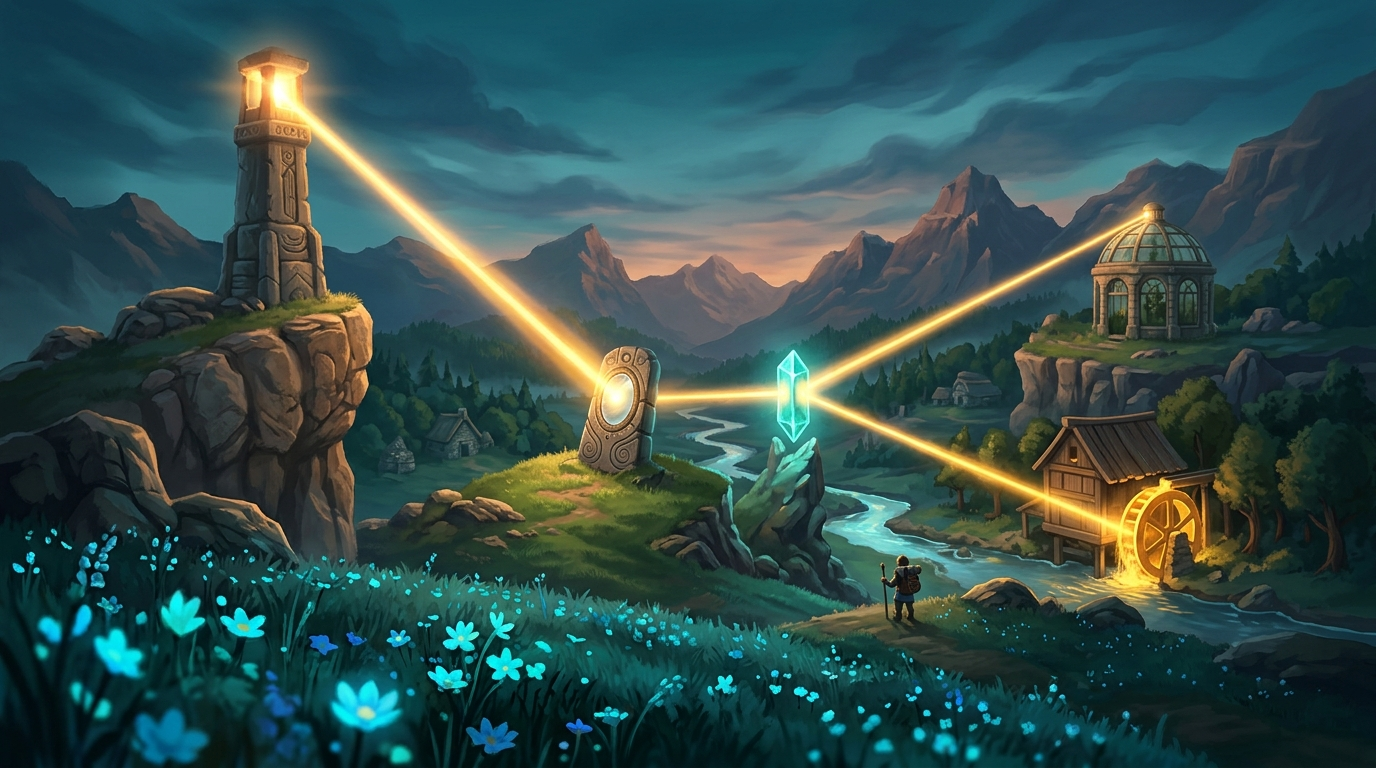
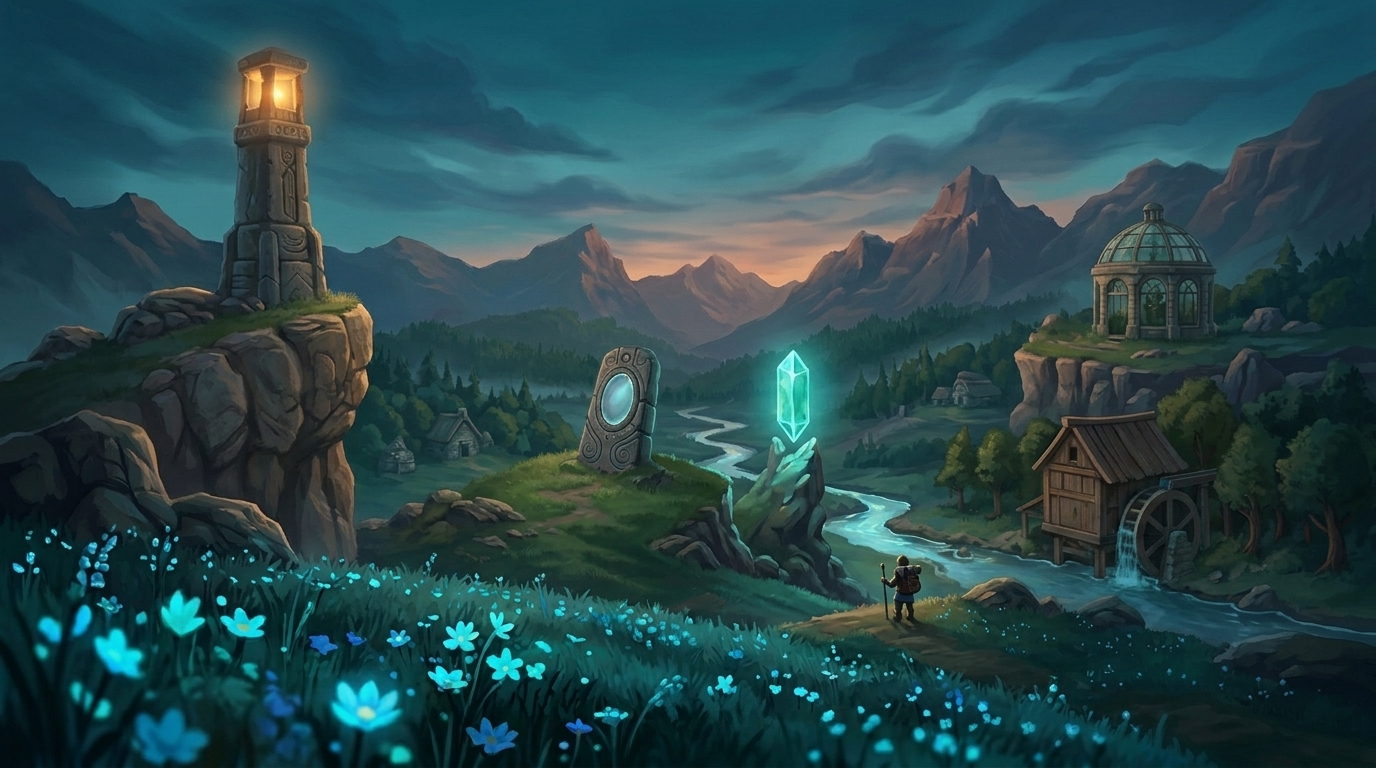
Fix Sun-Mirror Valley: remove baked-in ghost beams, unclip lighthouse badge, add live beam labels & optical console
- Regenerated assets/worlds/sun-mirror-valley.jpg without baked-in light rays so only real active beams illuminate the valley
- Clamped & repositioned the lighthouse power badge beside the beacon so it is never clipped
- Forced LTR number formatting (0/4, 8/4 red overload, 4/4 green check), added live power labels on beams, building illumination glows, and an interactive 2-step Optical Control Console below the stage

diff --git a/games/sun-mirror-valley.js b/games/sun-mirror-valley.js
@@ -36,6 +36,11 @@
       lockLabel: '☀ העמק מואר — המשך!',
       greenhouse: 'חממת הצמחים',
       watermill: 'טחנת המים',
+      mirrorAim: '🪞 כוון מראה ↻',
+      mirrorOff: 'כבוי',
+      mirrorOn: (b) => b > 0 ? `עדשה +${b}` : 'מכוון (+0)',
+      ctrlMirror: '1. מראת האבן (עוצמה)',
+      ctrlPrism: '2. גביש הטורקיז (פיצול)',
       prismModes: {
         up:    '↖ לחממה בלבד',
         down:  '↙ לטחנה בלבד',
@@ -57,6 +62,11 @@
       lockLabel: '☀ Valley Awakened — Continue!',
       greenhouse: 'Botanical Greenhouse',
       watermill: 'Golden Watermill',
+      mirrorAim: '🪞 Aim Mirror ↻',
+      mirrorOff: 'Off',
+      mirrorOn: (b) => b > 0 ? `Lens +${b}` : 'Aligned (+0)',
+      ctrlMirror: '1. Stone Mirror (Power)',
+      ctrlPrism: '2. Turquoise Prism (Split)',
       prismModes: {
         up:    '↖ Greenhouse Only',
         down:  '↙ Watermill Only',
@@ -214,9 +224,40 @@
     .smv-lock-cta.ready {
       pointer-events: auto; opacity: 1; transform: translateX(-50%) scale(1);
     }
+    .smv-console {
+      width: 100%; display: grid; grid-template-columns: repeat(2, minmax(0, 1fr)); gap: 10px;
+      background: linear-gradient(180deg, #0b1c29, #08151f);
+      border: 2px solid #2b4c5e; border-radius: 18px; padding: 10px 12px;
+      box-shadow: 0 8px 20px rgba(5, 12, 20, .28);
+    }
+    .smv-ctrl { display: flex; flex-direction: column; gap: 6px; min-width: 0; }
+    .smv-ctrl-title {
+      font-family: Fredoka, Heebo, sans-serif; font-weight: 700;
+      font-size: .84rem; color: #cbd5e1; display: flex; align-items: center; gap: 6px;
+    }
+    .smv-chips { display: flex; flex-wrap: wrap; gap: 6px; }
+    .smv-chip {
+      border: 1.5px solid #335c70; background: #0f2736; color: #e2e8f0;
+      border-radius: 99px; padding: 5px 12px; cursor: pointer;
+      font-family: Fredoka, Heebo, sans-serif; font-weight: 700; font-size: .82rem;
+      transition: transform .12s, background .15s, border-color .15s;
+    }
+    .smv-chip:hover { border-color: #fde047; transform: translateY(-1px); }
+    .smv-chip.active {
+      background: linear-gradient(180deg, #f59e0b, #b45309);
+      border-color: #fef08a; color: #fff;
+      box-shadow: 0 0 12px rgba(245, 158, 11, .45);
+    }
+    .smv-chip.prism.active {
+      background: linear-gradient(180deg, #0ea5e9, #0369a1);
+      border-color: #7dd3fc; color: #fff;
+      box-shadow: 0 0 12px rgba(56, 189, 248, .45);
+    }
     @media (max-width: 600px) {
       .smv-stage-box { height: auto; aspect-ratio: 16 / 10; min-height: 235px; max-height: 320px; border-radius: 18px; }
       .smv-node-btn { width: 58px; height: 58px; }
+      .smv-console { grid-template-columns: 1fr; gap: 8px; padding: 9px 10px; }
+      .smv-chip { padding: 4px 10px; font-size: .78rem; }
     }
   `;
 
@@ -272,6 +313,16 @@
             <button type="button" class="smv-lock-cta" id="smv-lock-cta">${t.lockLabel}</button>
           </div>
         </div>
+        <div class="smv-console" id="smv-console">
+          <div class="smv-ctrl">
+            <div class="smv-ctrl-title">${t.ctrlMirror}</div>
+            <div class="smv-chips" id="smv-mirror-chips"></div>
+          </div>
+          <div class="smv-ctrl">
+            <div class="smv-ctrl-title">${t.ctrlPrism}</div>
+            <div class="smv-chips" id="smv-prism-chips"></div>
+          </div>
+        </div>
       </div>
     `;
 
@@ -281,6 +332,8 @@
     const btnMirror = root.querySelector('#btn-mirror');
     const btnPrism = root.querySelector('#btn-prism');
     const lockCta = root.querySelector('#smv-lock-cta');
+    const mirrorChips = root.querySelector('#smv-mirror-chips');
+    const prismChips = root.querySelector('#smv-prism-chips');
     const headH2 = root.querySelector('.kit-head h2');
     const hintEl = root.querySelector('#smv-hint');
 
@@ -393,6 +446,53 @@
       }
 
       lockCta.classList.toggle('ready', st.goalMet && !locked);
+      renderConsole();
+    }
+
+    function renderConsole() {
+      mirrorChips.innerHTML = '';
+      const offBtn = document.createElement('button');
+      offBtn.type = 'button';
+      offBtn.className = 'smv-chip' + (!mirrorAligned ? ' active' : '');
+      offBtn.textContent = t.mirrorOff;
+      offBtn.addEventListener('click', () => {
+        if (locked) return;
+        mirrorAligned = false;
+        sfxCrystal(420);
+        updateTexts();
+      });
+      mirrorChips.appendChild(offBtn);
+
+      round.mirrorBoosts.forEach((b, idx) => {
+        const chip = document.createElement('button');
+        chip.type = 'button';
+        chip.className = 'smv-chip' + (mirrorAligned && mirrorBoostIdx === idx ? ' active' : '');
+        const total = round.basePower + b;
+        chip.textContent = `${t.mirrorOn(b)} → ${total}`;
+        chip.addEventListener('click', () => {
+          if (locked) return;
+          mirrorAligned = true;
+          mirrorBoostIdx = idx;
+          sfxCrystal(540 + idx * 110);
+          updateTexts();
+        });
+        mirrorChips.appendChild(chip);
+      });
+
+      prismChips.innerHTML = '';
+      round.prismOptions.forEach((opt, idx) => {
+        const chip = document.createElement('button');
+        chip.type = 'button';
+        chip.className = 'smv-chip prism' + (prismIdx === idx ? ' active' : '');
+        chip.textContent = t.prismModes[opt];
+        chip.addEventListener('click', () => {
+          if (locked) return;
+          prismIdx = idx;
+          sfxCrystal(720 + idx * 90);
+          updateTexts();
+        });
+        prismChips.appendChild(chip);
+      });
     }
 
     function loadRound(idx) {
@@ -462,24 +562,54 @@
       if (st.goalMet && !locked) completeRound();
     });
 
-    function drawPill(x, y, text, ok, highlight) {
+    function drawPill(x, y, text, state, highlight) {
       const padX = W < 540 ? 8 : 12;
+      ctx2d.save();
+      ctx2d.direction = 'ltr';
       ctx2d.font = `700 ${W < 540 ? 10.5 : 12.5}px Fredoka, Heebo, sans-serif`;
       const tw = ctx2d.measureText(text).width;
-      const bw = Math.max(W < 540 ? 48 : 62, tw + padX * 2);
+      const bw = Math.max(W < 540 ? 46 : 60, tw + padX * 2);
       const bh = W < 540 ? 22 : 26;
+      const cx = Math.max(bw / 2 + 6, Math.min(W - bw / 2 - 6, x));
+      const cy = Math.max(bh / 2 + 6, Math.min(H - bh / 2 - 6, y));
 
-      ctx2d.fillStyle = ok ? 'rgba(20, 83, 45, 0.94)' : 'rgba(11, 22, 36, 0.92)';
-      ctx2d.strokeStyle = ok ? '#4ade80' : (highlight ? '#fde047' : '#c8a962');
+      const isOk = state === true || state === 'ok';
+      const isOver = state === 'over';
+      ctx2d.fillStyle = isOk
+        ? 'rgba(20, 83, 45, 0.94)'
+        : isOver
+          ? 'rgba(127, 29, 29, 0.94)'
+          : 'rgba(11, 22, 36, 0.92)';
+      ctx2d.strokeStyle = isOk
+        ? '#4ade80'
+        : isOver
+          ? '#f87171'
+          : (highlight ? '#fde047' : '#c8a962');
       ctx2d.lineWidth = highlight ? 2.6 : 1.8;
       ctx2d.beginPath();
-      ctx2d.roundRect(x - bw / 2, y - bh / 2, bw, bh, 99);
+      ctx2d.roundRect(cx - bw / 2, cy - bh / 2, bw, bh, 99);
       ctx2d.fill();
       ctx2d.stroke();
 
-      ctx2d.fillStyle = ok ? '#bbf7d0' : '#fef3c7';
+      ctx2d.fillStyle = isOk ? '#bbf7d0' : isOver ? '#fecaca' : '#fef3c7';
       ctx2d.textAlign = 'center';
-      ctx2d.fillText(text, x, y + (W < 540 ? 3.5 : 4.5));
+      ctx2d.fillText(text, cx, cy + (W < 540 ? 3.5 : 4.5));
+      ctx2d.restore();
+    }
+
+    function drawBuildingGlow(p, intensity, col) {
+      if (intensity <= 0) return;
+      ctx2d.save();
+      ctx2d.globalCompositeOperation = 'screen';
+      const r = (W < 540 ? 36 : 56) * Math.min(1.2, 0.65 + intensity * 0.08);
+      const g = ctx2d.createRadialGradient(p.x, p.y, 4, p.x, p.y, r);
+      g.addColorStop(0, col);
+      g.addColorStop(1, 'rgba(255, 200, 80, 0)');
+      ctx2d.fillStyle = g;
+      ctx2d.beginPath();
+      ctx2d.arc(p.x, p.y, r, 0, Math.PI * 2);
+      ctx2d.fill();
+      ctx2d.restore();
     }
 
     function drawBeam(a, b, power, col = '#fde047') {
@@ -539,14 +669,20 @@
       const pGreen = map(LANDMARKS.greenhouse.u, LANDMARKS.greenhouse.v);
       const pMill = map(LANDMARKS.watermill.u, LANDMARKS.watermill.v);
 
-      /* 1. Live Ray-Traced Sunbeams */
+      /* 1. Live Ray-Traced Sunbeams (100% live, zero baked-in ghost beams) */
       drawBeam(pTower, pMirror, round.basePower, '#fde047');
       if (mirrorAligned) {
         drawBeam(pMirror, pPrism, st.incoming, '#fde047');
-        if (st.greenPower > 0) drawBeam(pPrism, pGreen, st.greenPower, '#67e8f9');
-        if (st.millPower > 0) drawBeam(pPrism, pMill, st.millPower, '#fde047');
+        if (st.greenPower > 0) {
+          drawBeam(pPrism, pGreen, st.greenPower, '#67e8f9');
+          drawBuildingGlow(pGreen, st.greenPower, 'rgba(103, 232, 249, 0.65)');
+        }
+        if (st.millPower > 0) {
+          drawBeam(pPrism, pMill, st.millPower, '#fde047');
+          drawBuildingGlow(pMill, st.millPower, 'rgba(253, 224, 71, 0.72)');
+        }
       } else {
-        /* Misaligned mirror bounces beam harmlessly into the sky/cliff */
+        /* Misaligned mirror bounces beam harmlessly into the sky */
         drawBeam(pMirror, { x: pMirror.x + 48, y: pMirror.y - 95 }, round.basePower, 'rgba(253, 224, 71, 0.45)');
       }
 
@@ -609,23 +745,33 @@
       });
       ctx2d.restore();
 
-      /* 5. Diegetic Energy & Operation Badges */
-      drawPill(pTower.x, pTower.y - (W < 540 ? 22 : 30), `☀ ${round.basePower}`, true, false);
+      /* 5. Diegetic Energy & Operation Badges (clamped safely inside viewport) */
+      drawPill(pTower.x + (W < 540 ? 44 : 58), Math.max(22, pTower.y + 8), `☀ ${round.basePower}`, 'ok', false);
 
       const mirrorText = !mirrorAligned
-        ? '🪞 כוון מראה ↻'
+        ? t.mirrorAim
         : st.boost > 0
-          ? `🪞 +${st.boost} (=${st.incoming})`
+          ? `🪞 +${st.boost} = ${st.incoming}`
           : `🪞 ${st.incoming}`;
       drawPill(pMirror.x, pMirror.y + ringR + 14, mirrorText, mirrorRight, !mirrorRight);
 
       drawPill(pPrism.x, pPrism.y - ringR - 14, t.prismModes[st.pMode], st.goalMet, mirrorRight && !st.goalMet);
 
+      /* Live power numbers floating right on each active outgoing beam */
+      if (mirrorAligned && st.greenPower > 0) {
+        drawPill((pPrism.x + pGreen.x) * 0.52, (pPrism.y + pGreen.y) * 0.52 - 14, `${st.greenPower}`, st.greenOk ? 'ok' : (st.greenPower > round.needGreen && round.needGreen > 0 ? 'over' : false), false);
+      }
+      if (mirrorAligned && st.millPower > 0) {
+        drawPill((pPrism.x + pMill.x) * 0.52, (pPrism.y + pMill.y) * 0.52 + 14, `${st.millPower}`, st.millOk ? 'ok' : (st.millPower > round.needMill && round.needMill > 0 ? 'over' : false), false);
+      }
+
       if (round.needGreen > 0) {
-        drawPill(pGreen.x, pGreen.y - (W < 540 ? 24 : 34), `🌿 ${st.greenPower} / ${round.needGreen}`, st.greenOk, false);
+        const gState = st.greenOk ? 'ok' : (st.greenPower > round.needGreen ? 'over' : false);
+        drawPill(pGreen.x, pGreen.y - (W < 540 ? 24 : 34), `🌿 ${st.greenPower} / ${round.needGreen}${st.greenOk ? ' ✓' : ''}`, gState, false);
       }
       if (round.needMill > 0) {
-        drawPill(pMill.x, pMill.y + (W < 540 ? 24 : 34), `⚙ ${st.millPower} / ${round.needMill}`, st.millOk, false);
+        const mState = st.millOk ? 'ok' : (st.millPower > round.needMill ? 'over' : false);
+        drawPill(pMill.x, pMill.y + (W < 540 ? 24 : 34), `⚙ ${st.millPower} / ${round.needMill}${st.millOk ? ' ✓' : ''}`, mState, false);
       }
 
       ctx2d.restore();
